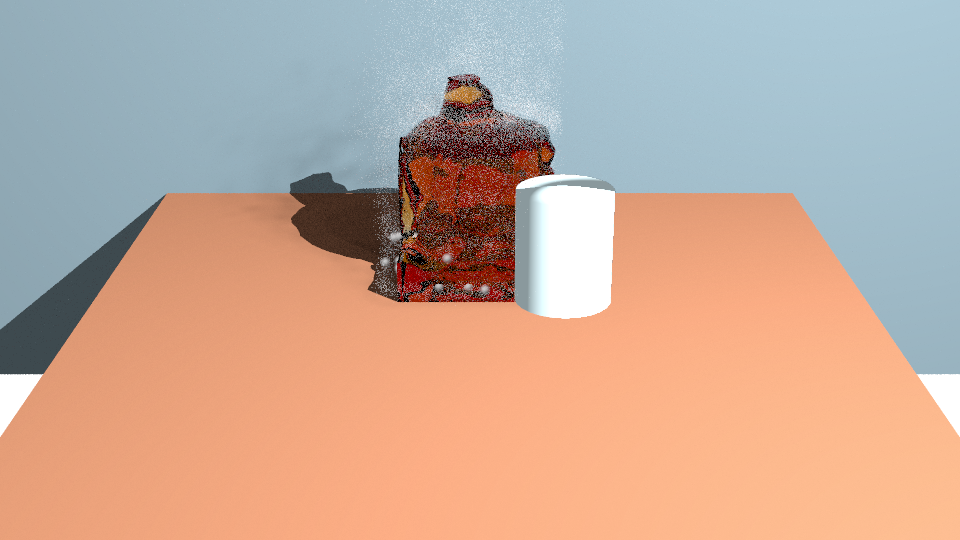
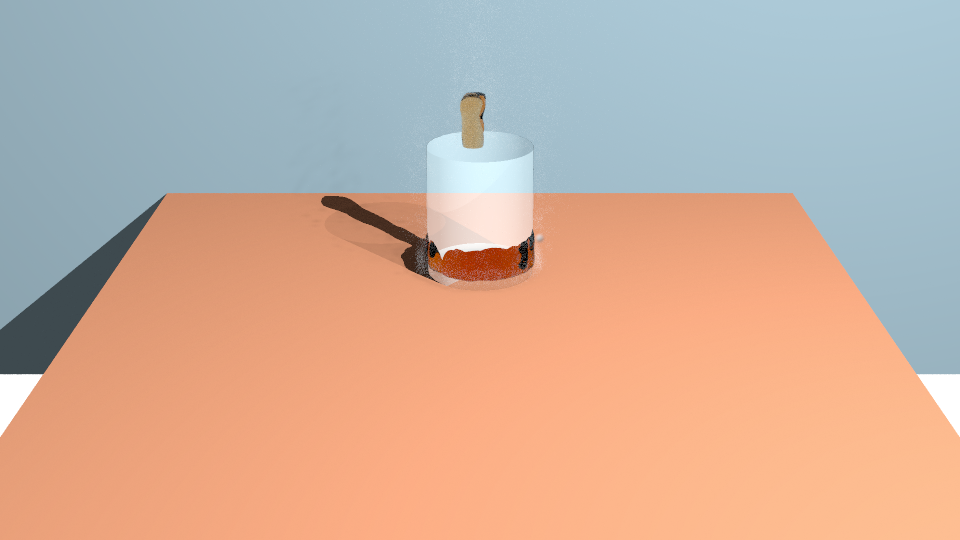
docs: record corrected Hot pour finish evidence

Changed region(s): [[0.2812, 0.0593, 0.6562, 0.5926]]

diff --git a/docs/FLUIDS_SPIKE.md b/docs/FLUIDS_SPIKE.md
@@ -1561,9 +1561,19 @@ On the regenerated 256³ liquid / 192³ steam, 120-frame production cache (47,66
 The half-resolution surface arrives within one second at all three production frames (slowest: 311.6 ms at frame 120). Full detail follows in under 226 ms at all three. Together with the playback measurements above, both Radeon acceptance targets pass. The benchmark is `benchmarks/hot_pour/radeon-stop-P4-2026-10-13.json`; its 47.66 GB generated cache was removed after measurement.
 
 
-### S2 of 2: the Hot pour reads as a pour (partial, 2026-10-15)
+### S2 of 2: the Hot pour reads as a pour (in progress, 2026-10-15)
 
-The example now uses a 64-cell liquid/steam grid and centers the holdout cup on the solver's pour axis; the keyed source path stays inside the cup radius and begins above its rim. `tests.test_hot_pour_shot` passes its CPU frame-1 check, including the holdout, liquid material, steam, and sub-minute evaluation. The 12 GB RTX 3080 Ti measurements, replacement stills, viewport first-look result, and Radeon 12 FPS result remain pending. An integrator full-suite run currently owns the shared GPU lock, so this lane stopped its queued exclusive bake instead of contending for the card. No new bake or still render has been measured in S2; the prior S1 numbers do not establish these targets.
+The shot uses a 64-cell liquid/steam grid. The stream source is above the glass opening; the holdout and plate glass now share the solver's center axis. A plate-generation defect had left a second, offset glass in the plate, so the live render now carries only the holdout while the plate supplies the single glass. `tests.test_hot_pour_shot` verifies the 64-cell graph, aligned holdout, liquid-material surface mesh with vertices, steam and shadow catcher; its CPU frame-1 evaluation completes in under a minute.
+
+**Measured on the 12 GB RTX 3080 Ti:** the 120-frame 64-cell bake took 34.94 seconds. The corrected 960 × 540 showcase frames use 32 path-tracing samples and took 201.06 seconds (frame 60), 201.88 seconds (frame 90) and 200.04 seconds (frame 120). The images are [frame 60](images/hot_pour_shot/hot-pour-060.png), [frame 90](images/hot_pour_shot/hot-pour-090.png) and [frame 120](images/hot_pour_shot/hot-pour-120.png). The corrected images show the stream entering the glass and a liquid pool at its base.
+
+A separate 8/32/128-sample sweep was captured before correcting the offset second cup: at frames 60 and 90, 8 samples took 108.95 and 103.59 seconds; 32 took 191.16 and 190.40 seconds; 128 took 726.40 and 704.59 seconds. Those timings describe the earlier two-cup composition. Corrected 32-sample timings above are the measurements for the replacement stills. The full corrected 8/32/128 timing matrix is incomplete. Results are in `benchmarks/hot_pour/hot-pour-shot-2026-10-14.json`.
+
+**48 GB RTX A6000 estimate (unmeasured):** its four-times-larger memory may allow a 128-cell grid and 32-sample 960 × 540 stills to stay in memory. Scaling the measured 64-cell bake by the 8× voxel count suggests roughly 4 minutes 40 seconds for the same 120 frames, still under the 20-minute budget. This is a capacity and workload estimate; mesh cost and peak GPU memory have not been measured. The A6000 is the same Ampere generation, so this estimate assumes no faster solver steps.
+
+**What still looks wrong:** steam remains sparse and speckled rather than a soft column; the stream's top looks like a rounded blob; the liquid pool is hard to read through the pale glass; the tabletop shadow has a hard edge. These are visual observations from the three replacement stills.
+
+The 1920 × 1080 progressive Render first-look/settle timings and the 64-cell Radeon preview rate/stop time are still pending on the shared GPU lock. The step remains partial until the viewport first look is under one second and Radeon preview reaches 12 FPS with a stop under one second.
 
 ## K2 rigid bodies — finish 1
 

diff --git a/nodebased/data/docs/FLUIDS_SPIKE.md b/nodebased/data/docs/FLUIDS_SPIKE.md
@@ -1561,9 +1561,19 @@ On the regenerated 256³ liquid / 192³ steam, 120-frame production cache (47,66
 The half-resolution surface arrives within one second at all three production frames (slowest: 311.6 ms at frame 120). Full detail follows in under 226 ms at all three. Together with the playback measurements above, both Radeon acceptance targets pass. The benchmark is `benchmarks/hot_pour/radeon-stop-P4-2026-10-13.json`; its 47.66 GB generated cache was removed after measurement.
 
 
-### S2 of 2: the Hot pour reads as a pour (partial, 2026-10-15)
+### S2 of 2: the Hot pour reads as a pour (in progress, 2026-10-15)
 
-The example now uses a 64-cell liquid/steam grid and centers the holdout cup on the solver's pour axis; the keyed source path stays inside the cup radius and begins above its rim. `tests.test_hot_pour_shot` passes its CPU frame-1 check, including the holdout, liquid material, steam, and sub-minute evaluation. The 12 GB RTX 3080 Ti measurements, replacement stills, viewport first-look result, and Radeon 12 FPS result remain pending. An integrator full-suite run currently owns the shared GPU lock, so this lane stopped its queued exclusive bake instead of contending for the card. No new bake or still render has been measured in S2; the prior S1 numbers do not establish these targets.
+The shot uses a 64-cell liquid/steam grid. The stream source is above the glass opening; the holdout and plate glass now share the solver's center axis. A plate-generation defect had left a second, offset glass in the plate, so the live render now carries only the holdout while the plate supplies the single glass. `tests.test_hot_pour_shot` verifies the 64-cell graph, aligned holdout, liquid-material surface mesh with vertices, steam and shadow catcher; its CPU frame-1 evaluation completes in under a minute.
+
+**Measured on the 12 GB RTX 3080 Ti:** the 120-frame 64-cell bake took 34.94 seconds. The corrected 960 × 540 showcase frames use 32 path-tracing samples and took 201.06 seconds (frame 60), 201.88 seconds (frame 90) and 200.04 seconds (frame 120). The images are [frame 60](images/hot_pour_shot/hot-pour-060.png), [frame 90](images/hot_pour_shot/hot-pour-090.png) and [frame 120](images/hot_pour_shot/hot-pour-120.png). The corrected images show the stream entering the glass and a liquid pool at its base.
+
+A separate 8/32/128-sample sweep was captured before correcting the offset second cup: at frames 60 and 90, 8 samples took 108.95 and 103.59 seconds; 32 took 191.16 and 190.40 seconds; 128 took 726.40 and 704.59 seconds. Those timings describe the earlier two-cup composition. Corrected 32-sample timings above are the measurements for the replacement stills. The full corrected 8/32/128 timing matrix is incomplete. Results are in `benchmarks/hot_pour/hot-pour-shot-2026-10-14.json`.
+
+**48 GB RTX A6000 estimate (unmeasured):** its four-times-larger memory may allow a 128-cell grid and 32-sample 960 × 540 stills to stay in memory. Scaling the measured 64-cell bake by the 8× voxel count suggests roughly 4 minutes 40 seconds for the same 120 frames, still under the 20-minute budget. This is a capacity and workload estimate; mesh cost and peak GPU memory have not been measured. The A6000 is the same Ampere generation, so this estimate assumes no faster solver steps.
+
+**What still looks wrong:** steam remains sparse and speckled rather than a soft column; the stream's top looks like a rounded blob; the liquid pool is hard to read through the pale glass; the tabletop shadow has a hard edge. These are visual observations from the three replacement stills.
+
+The 1920 × 1080 progressive Render first-look/settle timings and the 64-cell Radeon preview rate/stop time are still pending on the shared GPU lock. The step remains partial until the viewport first look is under one second and Radeon preview reaches 12 FPS with a stop under one second.
 
 ## K2 rigid bodies — finish 1
 

diff --git a/STATUS.md b/STATUS.md
@@ -70,6 +70,4 @@ All requested code, measurements, and three-adapter targeted checks are committe
 
 # Lane 6 S2 — hot-pour picture quality (active, 2026-10-15)
 
-Starting on synchronized `openclaw/nb-fluids-spike`. The prior shot's 32-cell bake is quick, but the liquid still reads as a rounded mass, with no clear stream and noisy steam. S2 targets a visible pour, smooth cached-surface shading, progressive viewport first-look timing, and measured preview/render budgets on the 12 GB RTX 3080 Ti. Large generated data belongs in workspace scratch and must be removed before handoff. GPU work must use the shared lock.
-
-Current state: scene realigned to the pour axis at 64 cells; the CPU frame-1 test and documentation sync passed. GPU bake was queued behind an active integrator full-suite lock and stopped before starting. All timing and visual targets remain pending.
+The 64-cell bake completed on the RTX 3080 Ti in 34.94 seconds; the corrected graph's CPU frame-1 test passes and confirms a non-empty liquid surface mesh. The first visual inspection found a second, offset cup baked into the plate. The shot/plate generator now leaves one plate glass and aligns the transparent holdout with it. Corrected 32-sample stills for frames 60, 90 and 120 took 201.06, 201.88 and 200.04 seconds. The earlier 8/32/128 sweep measured frames 60 and 90 before this composition cleanup; 128-sample frames took 726.4 and 704.59 seconds. The progressive Render measurement is queued behind an integrator full-suite run; the Radeon preview measurement has not started. Generated cache/logs remain in the designated scratch folder and must be removed before handoff. The shared GPU lock is held only by the queued lane command.
